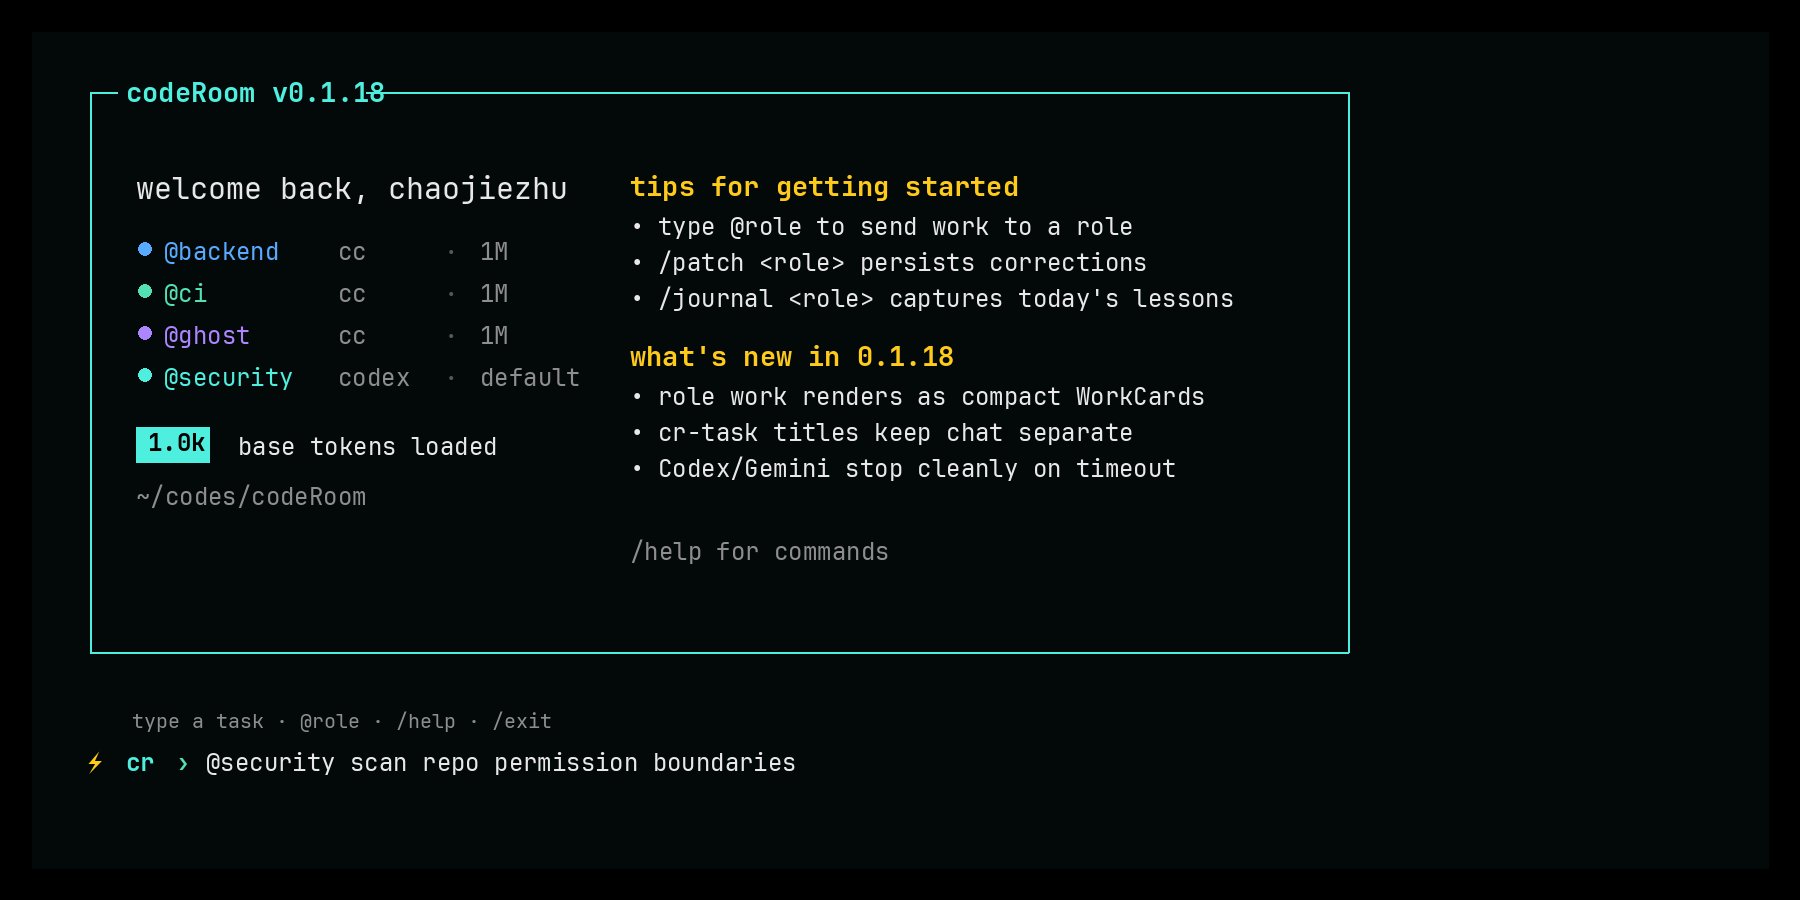
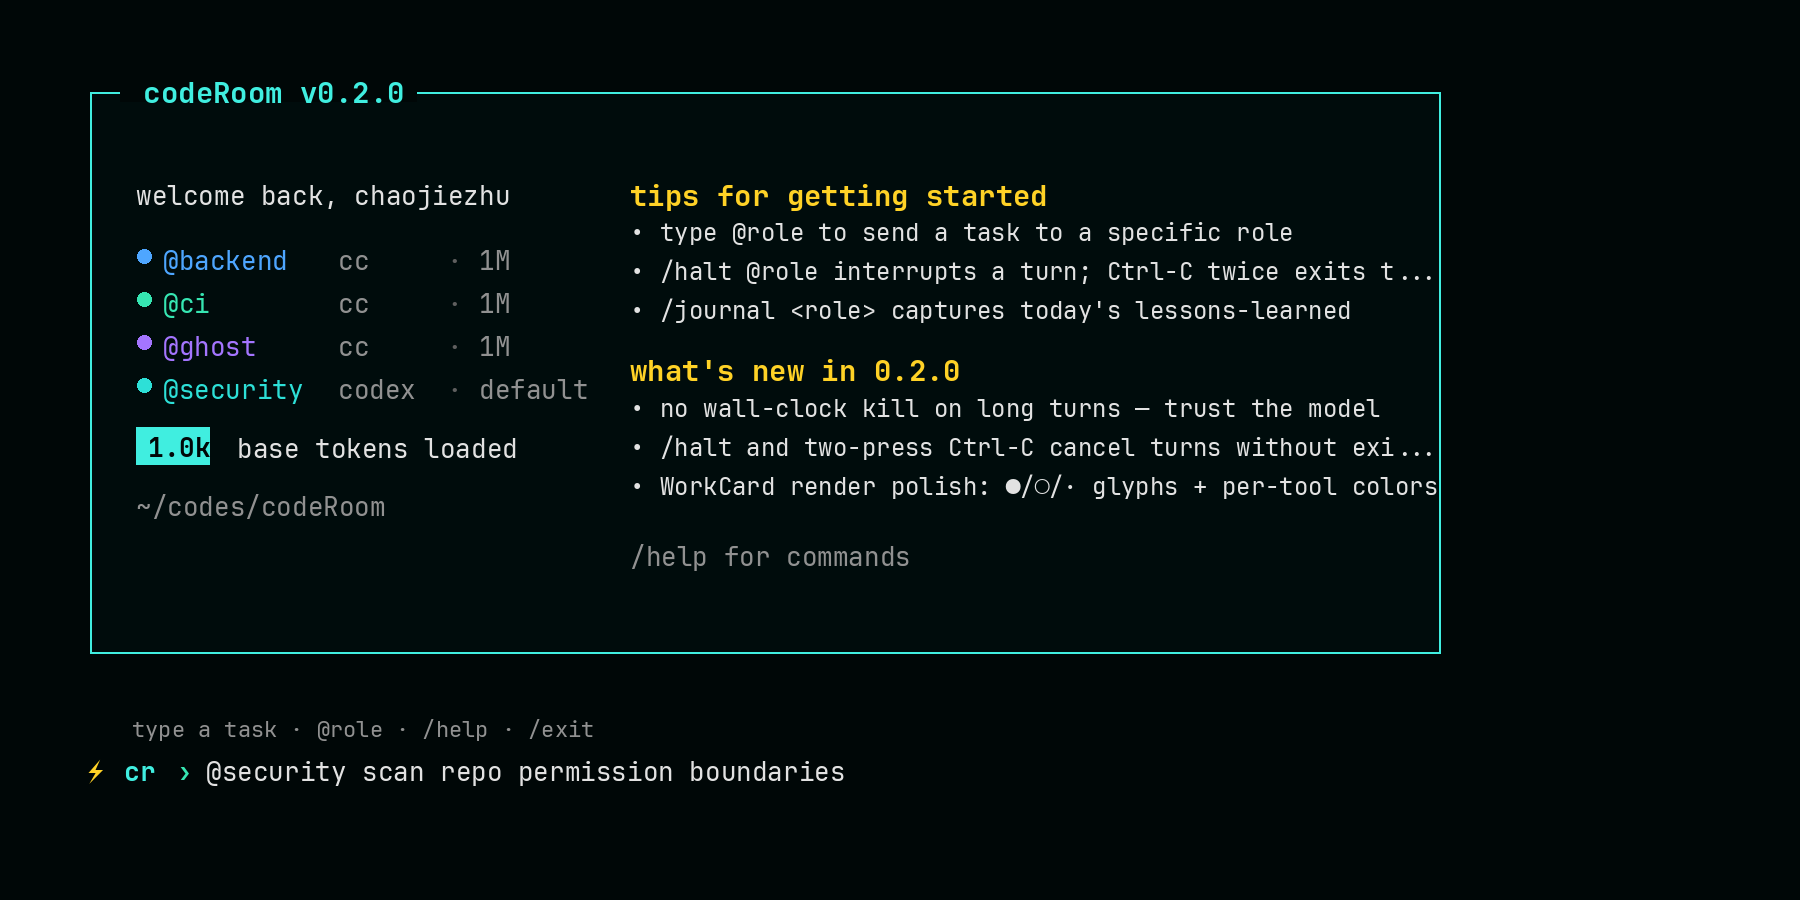
docs: document README image generation

diff --git a/scripts/render-readme-images.py b/scripts/render-readme-images.py
@@ -1,0 +1,297 @@
+#!/usr/bin/env python3
+"""Render the PNG screenshots embedded in README.md.
+
+The images are intentionally synthetic terminal compositions. They keep the
+README stable and reproducible without requiring a live TUI, VHS, freeze, or a
+particular desktop screenshot setup.
+"""
+
+from __future__ import annotations
+
+import re
+import sys
+from pathlib import Path
+from typing import Iterable
+
+try:
+    from PIL import Image, ImageDraw, ImageFont
+except ImportError as exc:
+    raise SystemExit(
+        "Pillow is required. Install it with: python3 -m pip install --user pillow"
+    ) from exc
+
+try:
+    import tomllib
+except ImportError as exc:
+    raise SystemExit("Python 3.11+ is required for tomllib.") from exc
+
+
+ROOT = Path(__file__).resolve().parents[1]
+OUT_DIR = ROOT / "docs" / "images"
+CANVAS = (1800, 900)
+
+BG = (0, 7, 7)
+PANEL = (0, 12, 12)
+CYAN = (64, 238, 224)
+YELLOW = (255, 210, 38)
+WHITE = (226, 226, 226)
+MUTED = (145, 145, 145)
+DIM = (95, 95, 95)
+BLUE = (78, 166, 255)
+GREEN = (54, 230, 178)
+PURPLE = (164, 117, 255)
+SECURITY = (45, 224, 215)
+BACKEND = (55, 141, 220)
+CI = (38, 190, 142)
+RAIL_BG = (0, 10, 10)
+
+
+FONT_REGULAR = [
+    "/usr/share/fonts/truetype/jetbrains-mono/JetBrainsMono-Regular.ttf",
+    "/usr/share/fonts/truetype/ubuntu/UbuntuMono-R.ttf",
+    "/usr/share/fonts/truetype/liberation/LiberationMono-Regular.ttf",
+]
+FONT_BOLD = [
+    "/usr/share/fonts/truetype/jetbrains-mono/JetBrainsMono-Bold.ttf",
+    "/usr/share/fonts/truetype/ubuntu/UbuntuMono-B.ttf",
+    "/usr/share/fonts/truetype/liberation/LiberationMono-Bold.ttf",
+]
+FONT_ITALIC = [
+    "/usr/share/fonts/truetype/jetbrains-mono/JetBrainsMono-Italic.ttf",
+    "/usr/share/fonts/truetype/ubuntu/UbuntuMono-RI.ttf",
+    "/usr/share/fonts/truetype/liberation/LiberationMono-Italic.ttf",
+]
+
+
+def load_font(candidates: Iterable[str], size: int) -> ImageFont.ImageFont:
+    for candidate in candidates:
+        path = Path(candidate)
+        if path.exists():
+            return ImageFont.truetype(str(path), size=size)
+    return ImageFont.load_default()
+
+
+FONT = load_font(FONT_REGULAR, 26)
+BOLD = load_font(FONT_BOLD, 26)
+TITLE = load_font(FONT_BOLD, 29)
+BODY = load_font(FONT_REGULAR, 24)
+SMALL = load_font(FONT_REGULAR, 22)
+SMALL_BOLD = load_font(FONT_BOLD, 22)
+ITALIC = load_font(FONT_ITALIC, 24)
+
+
+def text_width(draw: ImageDraw.ImageDraw, text: str, font: ImageFont.ImageFont) -> int:
+    left, _, right, _ = draw.textbbox((0, 0), text, font=font)
+    return right - left
+
+
+def fit_text(
+    draw: ImageDraw.ImageDraw, text: str, max_width: int, font: ImageFont.ImageFont
+) -> str:
+    if text_width(draw, text, font) <= max_width:
+        return text
+    suffix = "..."
+    available = max_width - text_width(draw, suffix, font)
+    clipped = ""
+    for char in text:
+        if text_width(draw, clipped + char, font) > available:
+            break
+        clipped += char
+    return clipped.rstrip() + suffix
+
+
+def draw_text(
+    draw: ImageDraw.ImageDraw,
+    xy: tuple[int, int],
+    text: str,
+    color: tuple[int, int, int] = WHITE,
+    font: ImageFont.ImageFont = FONT,
+) -> None:
+    draw.text(xy, text, fill=color, font=font)
+
+
+def package_version() -> str:
+    manifest = (ROOT / "Cargo.toml").read_text(encoding="utf-8")
+    match = re.search(r'(?m)^version\s*=\s*"([^"]+)"', manifest)
+    if not match:
+        raise SystemExit("Could not find package version in Cargo.toml")
+    return match.group(1)
+
+
+def splash_copy(version: str) -> tuple[list[str], str, list[str]]:
+    with (ROOT / "data" / "splash_content.toml").open("rb") as handle:
+        data = tomllib.load(handle)
+    tips = list(data.get("tips", {}).get("items", []))
+    entries = list(data.get("whats_new", []))
+    if not entries:
+        return tips, version, []
+    chosen = next((entry for entry in entries if entry.get("version") == version), entries[0])
+    return tips, str(chosen.get("version", version)), list(chosen.get("items", []))
+
+
+def new_canvas() -> tuple[Image.Image, ImageDraw.ImageDraw]:
+    image = Image.new("RGB", CANVAS, BG)
+    draw = ImageDraw.Draw(image)
+    return image, draw
+
+
+def bullet(draw: ImageDraw.ImageDraw, x: int, y: int, color: tuple[int, int, int]) -> None:
+    draw.ellipse((x, y, x + 14, y + 14), fill=color)
+
+
+def prompt(draw: ImageDraw.ImageDraw, x: int, y: int, body: str) -> None:
+    draw_text(draw, (x, y), "⚡", YELLOW, BOLD)
+    draw_text(draw, (x + 36, y), "cr", CYAN, BOLD)
+    draw_text(draw, (x + 89, y), "›", GREEN, BOLD)
+    draw_text(draw, (x + 118, y), body, WHITE, FONT)
+
+
+def render_boot_dashboard() -> None:
+    version = package_version()
+    tips, whats_new_version, whats_new = splash_copy(version)
+    image, draw = new_canvas()
+
+    left, top, right, bottom = 90, 92, 1440, 653
+    draw.rectangle((left, top, right, bottom), fill=PANEL, outline=CYAN, width=2)
+    title = f" codeRoom v{version} "
+    draw.rectangle((left + 30, top - 21, left + 30 + text_width(draw, title, TITLE), top + 9), fill=BG)
+    draw_text(draw, (left + 36, top - 19), title, CYAN, TITLE)
+
+    draw_text(draw, (136, 178), "welcome back, chaojiezhu", WHITE, FONT)
+    roles = [
+        ("@backend", "cc", "1M", BLUE),
+        ("@ci", "cc", "1M", GREEN),
+        ("@ghost", "cc", "1M", PURPLE),
+        ("@security", "codex", "default", SECURITY),
+    ]
+    y = 243
+    for role, engine, model, color in roles:
+        bullet(draw, 137, y + 6, color)
+        draw_text(draw, (163, y), role, color, FONT)
+        draw_text(draw, (338, y), engine, MUTED, FONT)
+        draw_text(draw, (447, y), "·", DIM, FONT)
+        draw_text(draw, (479, y), model, MUTED, FONT)
+        y += 43
+
+    draw.rectangle((136, 427, 209, 464), fill=CYAN)
+    draw_text(draw, (148, 430), "1.0k", BG, BOLD)
+    draw_text(draw, (237, 431), "base tokens loaded", WHITE, FONT)
+    draw_text(draw, (136, 489), "~/codes/codeRoom", MUTED, FONT)
+
+    right_x = 630
+    draw_text(draw, (right_x, 176), "tips for getting started", YELLOW, TITLE)
+    y = 216
+    for item in tips[:3]:
+        draw_text(draw, (right_x, y), "•", WHITE, BODY)
+        draw_text(draw, (right_x + 30, y), fit_text(draw, item, 780, BODY), WHITE, BODY)
+        y += 39
+
+    y += 18
+    draw_text(draw, (right_x, y), f"what's new in {whats_new_version}", YELLOW, TITLE)
+    y += 41
+    for item in whats_new[:3]:
+        draw_text(draw, (right_x, y), "•", WHITE, BODY)
+        draw_text(draw, (right_x + 30, y), fit_text(draw, item, 780, BODY), WHITE, BODY)
+        y += 39
+
+    draw_text(draw, (right_x, 539), "/help for commands", MUTED, FONT)
+    draw_text(draw, (132, 714), "type a task · @role · /help · /exit", MUTED, SMALL)
+    prompt(draw, 88, 754, "@security scan repo permission boundaries")
+
+    OUT_DIR.mkdir(parents=True, exist_ok=True)
+    image.save(OUT_DIR / "boot-dashboard.png")
+
+
+def status_line(draw: ImageDraw.ImageDraw, y: int, role: str) -> None:
+    draw_text(
+        draw,
+        (86, y),
+        f"│ 1 role working · chat stream paused until it reports · {role} -",
+        MUTED,
+        FONT,
+    )
+
+
+def work_card(
+    draw: ImageDraw.ImageDraw,
+    y: int,
+    role: str,
+    title: str,
+    duration: str,
+    steps: int,
+    color: tuple[int, int, int],
+) -> None:
+    left, right = 90, 1144
+    draw.line((left, y, right, y), fill=color, width=2)
+    draw.line((left, y, left, y + 31), fill=color, width=2)
+    draw.line((right, y, right, y + 31), fill=color, width=2)
+    draw.line((left, y + 31, right, y + 31), fill=color, width=2)
+    label = f" {role} · {title} · done in {duration} · {steps} steps "
+    draw.rectangle((left + 24, y - 15, left + 24 + text_width(draw, label, FONT), y + 16), fill=BG)
+    draw_text(draw, (left + 27, y - 17), label, color, FONT)
+
+
+def chat_line(
+    draw: ImageDraw.ImageDraw,
+    y: int,
+    role: str,
+    text: str,
+    color: tuple[int, int, int],
+) -> None:
+    draw.line((80, y - 3, 80, y + 29), fill=color, width=4)
+    draw_text(draw, (111, y), role, color, BOLD)
+    draw_text(draw, (111 + text_width(draw, role, BOLD) + 18, y), text, WHITE, FONT)
+
+
+def right_rail(draw: ImageDraw.ImageDraw) -> None:
+    x = 1244
+    draw.rectangle((1204, 128, 1726, 764), fill=RAIL_BG)
+    draw_text(draw, (x, 149), "engine trace modes", YELLOW, TITLE)
+    draw_text(draw, (x, 197), "@claude", BLUE, BOLD)
+    draw_text(draw, (x + 26, 230), "live tools", WHITE, FONT)
+    draw_text(draw, (x + 26, 264), "cr-task + assistant text", MUTED, SMALL)
+    draw_text(draw, (x, 309), "@codex", SECURITY, BOLD)
+    draw_text(draw, (x + 26, 342), "partial live", WHITE, FONT)
+    draw_text(draw, (x + 26, 376), "MCP notifications when emitted", MUTED, SMALL)
+    draw_text(draw, (x, 421), "@gemini", PURPLE, BOLD)
+    draw_text(draw, (x + 26, 454), "buffered", WHITE, FONT)
+    draw_text(draw, (x + 26, 488), "stream parsed after turn", MUTED, SMALL)
+
+    draw_text(draw, (x, 566), "visual rule", YELLOW, TITLE)
+    draw_text(draw, (x, 613), "work is framed", WHITE, FONT)
+    draw_text(draw, (x, 648), "chat stays unframed", MUTED, FONT)
+    draw_text(draw, (x, 699), "handoffs stay serial", WHITE, FONT)
+    draw_text(draw, (x, 734), "until concurrent roles land", MUTED, FONT)
+
+
+def render_work_cards() -> None:
+    image, draw = new_canvas()
+    prompt(draw, 82, 84, "@security review work-card protocol and timeout behavior")
+    status_line(draw, 134, "@security")
+    work_card(draw, 208, "@security", "Audit adapter timeout semantics", "24s", 4, (10, 118, 108))
+    chat_line(draw, 291, "@security", "REPL owns timeouts; stale engine replies are suppressed.", SECURITY)
+    draw_text(draw, (112, 344), "→ auto-routing to @backend", MUTED, SMALL)
+
+    status_line(draw, 392, "@backend")
+    work_card(draw, 466, "@backend", "Wire WorkTitle across engines", "31s", 3, (30, 110, 178))
+    chat_line(draw, 550, "@backend", "Work titles are extracted before role chat is rendered.", BLUE)
+
+    prompt(draw, 82, 633, "@ci run focused regression tests")
+    status_line(draw, 683, "@ci")
+    work_card(draw, 752, "@ci", "Run focused regression tests", "18s", 2, (30, 142, 107))
+    right_rail(draw)
+
+    OUT_DIR.mkdir(parents=True, exist_ok=True)
+    image.save(OUT_DIR / "work-cards.png")
+
+
+def main() -> int:
+    render_boot_dashboard()
+    render_work_cards()
+    print("rendered docs/images/boot-dashboard.png")
+    print("rendered docs/images/work-cards.png")
+    return 0
+
+
+if __name__ == "__main__":
+    raise SystemExit(main())

diff --git a/CLAUDE.md b/CLAUDE.md
@@ -1,0 +1,30 @@
+# Claude Notes
+
+## README Images
+
+The README screenshots are generated assets, not manual desktop captures.
+
+Use this exact command from the repository root:
+
+```bash
+make readme-images
+```
+
+That runs `python3 scripts/render-readme-images.py` and rewrites:
+
+- `docs/images/boot-dashboard.png`
+- `docs/images/work-cards.png`
+
+The renderer is a Pillow-based synthetic terminal composition. Do not use VHS,
+freeze, silicon, or ad hoc interactive screenshots for these README images
+unless the renderer itself is being replaced in the same change.
+
+If Pillow is missing:
+
+```bash
+python3 -m pip install --user pillow
+```
+
+After changing splash copy, WorkCard copy, colors, role names, or release
+version, run `make readme-images`, inspect both PNGs, and commit the script/doc
+changes together with the regenerated images.

diff --git a/docs/DEVELOPMENT.md b/docs/DEVELOPMENT.md
@@ -132,6 +132,17 @@ visible truncation:
 - [ ] **120 × 40** — modern desktop terminal
 - [ ] **60 × 20** — split pane / mobile SSH
 
+The two PNGs embedded in `README.md` are generated separately from the
+real-TUI verification screenshots. Refresh them with:
+
+```bash
+make readme-images
+```
+
+The command runs `scripts/render-readme-images.py`, a Pillow renderer that
+keeps the README hero images reproducible without depending on a live
+interactive session, VHS, freeze, silicon, or desktop screenshot state.
+
 For the role expansion picker specifically, run:
 
 ```bash